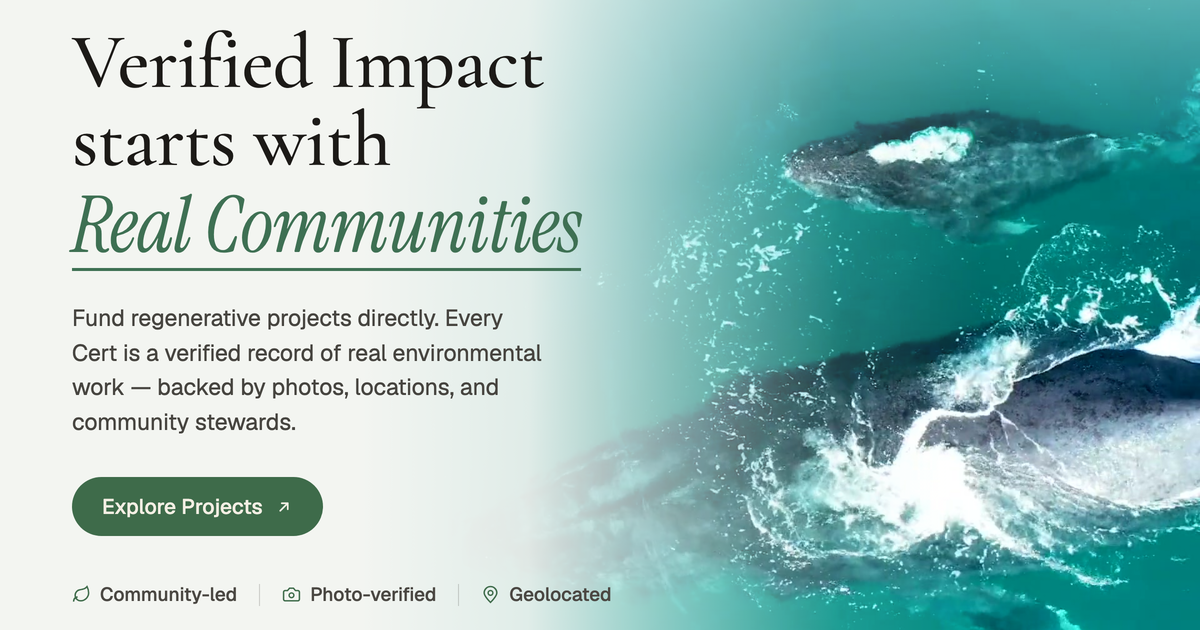
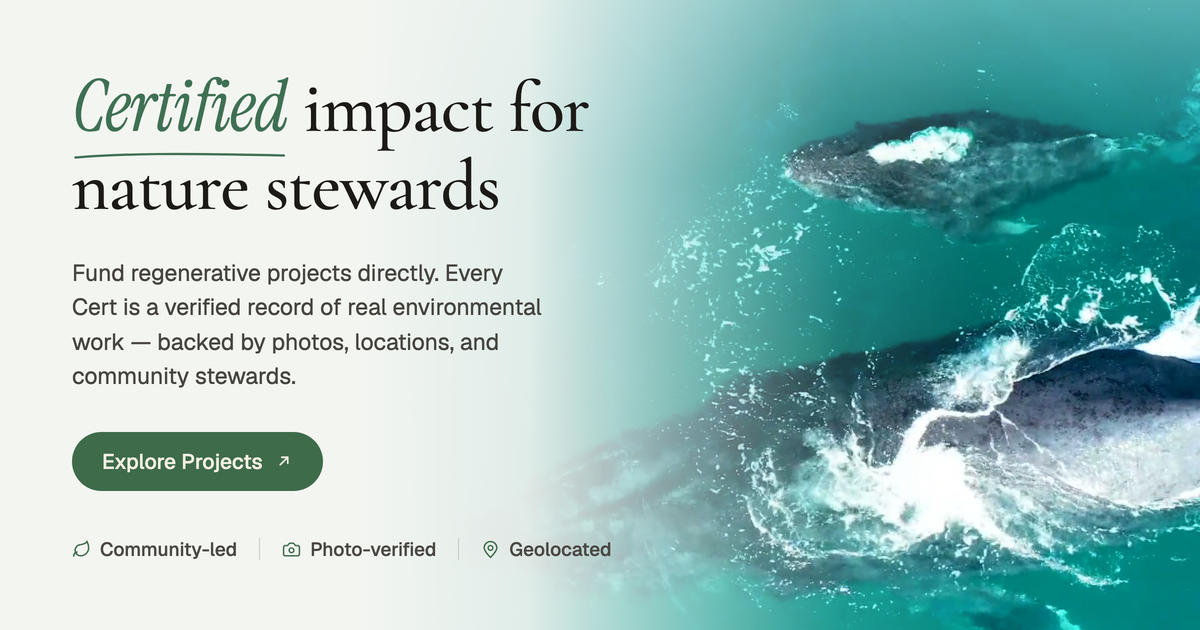
SEO: brand-led title + refresh whale OG image to current hero slogan
- OG image rebuilt from hero whale footage with current slogan
  'Certified impact for nature stewards' (was retired 'Verified Impact
  starts with Real Communities')
- OG_ALT updated to match new slogan
- Page title now leads with GainForest across all locales

diff --git a/app/layout.tsx b/app/layout.tsx
@@ -45,7 +45,7 @@ const instrument = Instrument_Serif({
 const SITE_NAME = "GainForest";
 const OG_IMAGE = "/og/gainforest-og.png";
 const OG_ALT =
-  "GainForest — verified impact starts with real communities. Fund regenerative projects directly, beside an aerial photo of humpback whales in turquoise water.";
+  "GainForest — certified impact for nature stewards. Fund regenerative projects directly, beside an aerial photo of humpback whales in turquoise water.";
 
 export async function generateMetadata(): Promise<Metadata> {
   const locale = resolveSupportedLanguage(await getLocale());